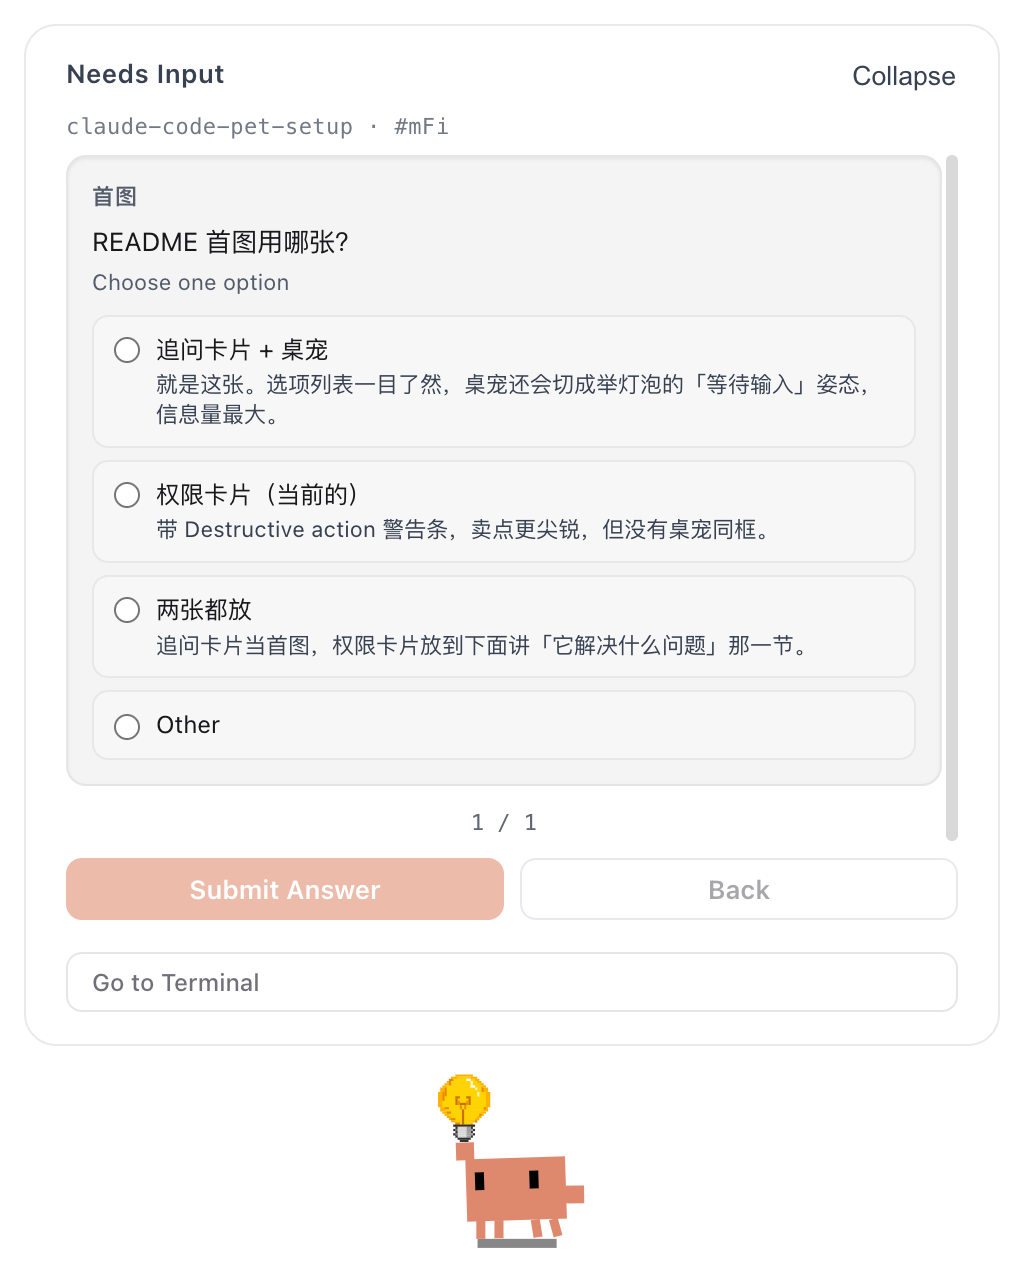
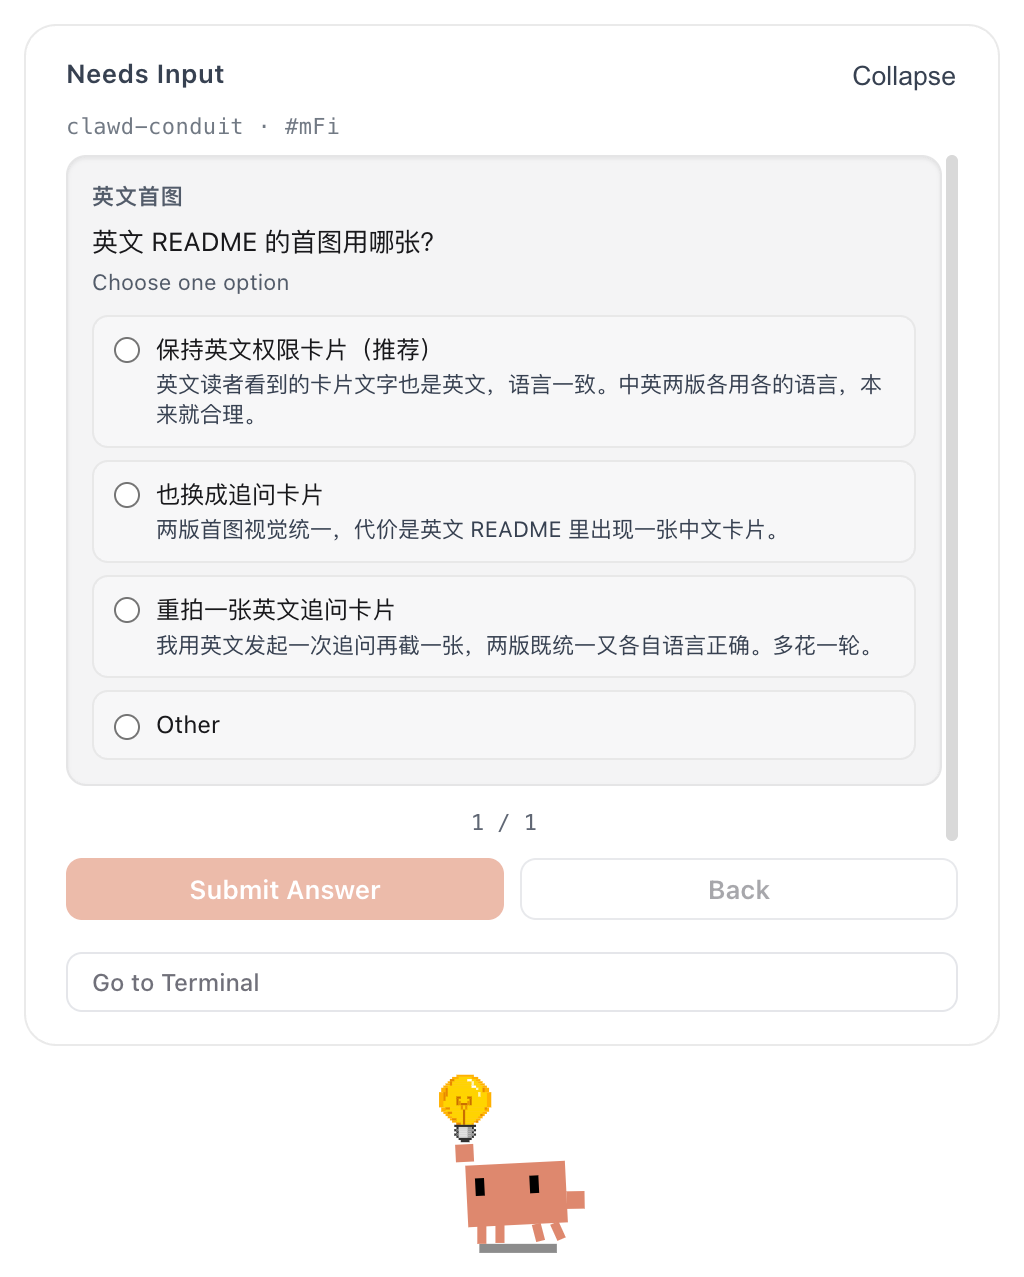
改名为 clawd-conduit，重拍截图
conduit 指向这个仓库的本质：Claude Code 与桌宠之间那条完整的信号通道，
比 pet-setup 更准确也更像项目名。旧仓库地址由 GitHub 301 重定向。

- README 中的 clone 地址与标题同步更名
- 重拍追问卡片：卡片上的项目名现在显示 clawd-conduit
- 新增英文追问卡片，英文 README 正文不再混用中文卡片

diff --git a/README.en.md b/README.en.md
@@ -1,4 +1,4 @@
-# claude-code-pet-setup
+# clawd-conduit
 
 > Wire a desktop pet into what your Claude Code session is *actually* doing — all 15 hook events.
 
@@ -44,11 +44,11 @@ This config cuts those three minutes to zero:
   which step blew up
 
 <p align="center">
-  <img src="assets/elicitation-with-pet.png" alt="Clawd's follow-up question card above the pet" width="340">
+  <img src="assets/elicitation-with-pet-en.png" alt="Clawd's follow-up question card above the pet" width="340">
 </p>
 <p align="center">
   <sub>When Claude Code asks you to pick between options, the card lands on the desktop and the
-  pet switches to its lightbulb "needs input" pose. (Card language follows Clawd's own setting.)</sub>
+  pet switches to its lightbulb "needs input" pose</sub>
 </p>
 
 ## Quick start
@@ -58,8 +58,8 @@ This config cuts those three minutes to zero:
 #    https://github.com/rullerzhou-afk/clawd-on-desk/releases
 
 # 2. Apply this config
-git clone https://github.com/ssssssanjiu/claude-code-pet-setup.git
-cd claude-code-pet-setup
+git clone https://github.com/ssssssanjiu/clawd-conduit.git
+cd clawd-conduit
 bash install.sh
 ```
 

diff --git a/assets/README.md b/assets/README.md
@@ -3,11 +3,12 @@
 | 文件 | 用途 |
 |---|---|
 | `elicitation-with-pet.png` | 中文 README 首图：追问卡片 + 桌宠（等待输入姿态） |
+| `elicitation-with-pet-en.png` | 英文 README 正文图，同上的英文版 |
 | `permission-bubble.png` | 权限卡片，含破坏性操作警告 |
 | `permission-bubble-en.png` | 英文 README 首图，同上 |
 
 全部用单窗口捕获（`screencapture -l <windowID>`）拍摄，只含卡片与桌宠本身，
-背景透明、无桌面内容。首图是把两个窗口分别截图后裁掉透明边再上下堆叠合成的
-（Clawd 原生只会把卡片放在桌宠左右侧）。
+背景透明、无桌面内容。追问卡片那两张是把两个窗口分别截图后裁掉透明边再上下
+堆叠合成的——Clawd 原生只会把卡片放在桌宠左右侧。
 
 卡片里的项目名与会话短码来自真实运行，不含任何路径或个人信息。
